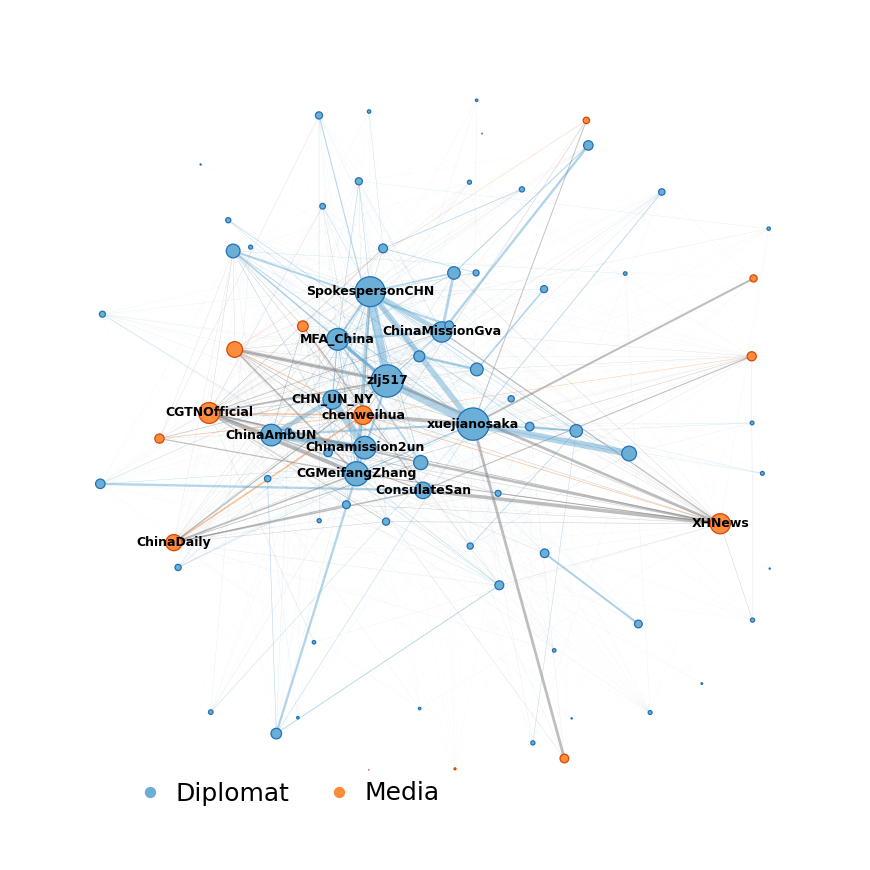
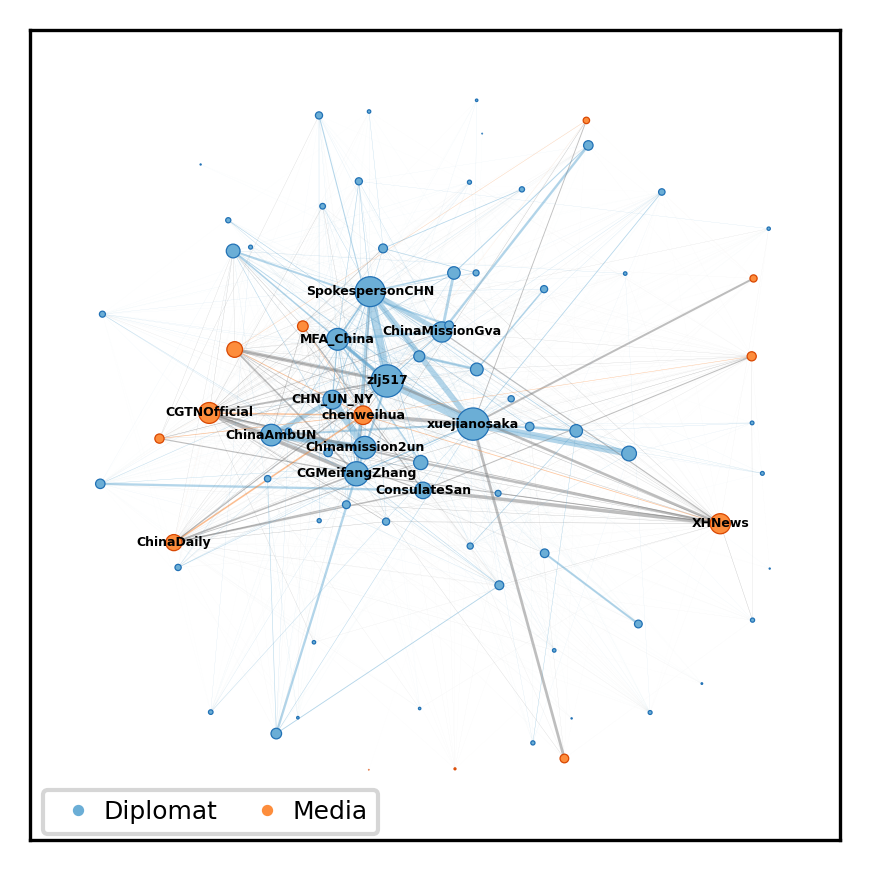
tweaks to networksplots

Changed region(s): [[0.031, 0.031, 0.9931, 0.9931]]

diff --git a/networks/src/network_early.py b/networks/src/network_early.py
@@ -3,7 +3,6 @@ main document for plot (updated 2022-02-01 VMP).
 '''
 
 # imports 
-import backboning
 import pandas as pd 
 import numpy as np
 import networkx as nx 
@@ -186,9 +185,9 @@ def plot_network(G, nodelst, edgelst, color_dct, node_color, nodeedge_color, edg
 
     # formatting & save
     lines, labels = get_legend(node_size, color_dct)
-    fig.legend(lines, labels, bbox_to_anchor=[0.53, 0.14], labelspacing = 1, columnspacing = 1, fontsize = 6, frameon = False, ncol=2, handletextpad=0.01)
+    fig.legend(lines, labels, bbox_to_anchor=[0.45, 0.12], labelspacing = 1, columnspacing = 1, fontsize = 6, frameon = False, ncol=2, handletextpad=0.01)
     plt.tight_layout()
-    plt.savefig(f"{outfolder}/{filename}_seed{seed}_k{k}_test.png", bbox_inches='tight')
+    plt.savefig(f"{outfolder}/{filename}_seed{seed}_k{k}.png", bbox_inches='tight')
 
 def main(n_labels, infile, outfolder): 
     print(infile)

diff --git a/networks/src/network_full.py b/networks/src/network_full.py
@@ -185,12 +185,11 @@ def plot_network(G, nodelst, edgelst, color_dct, node_color, nodeedge_color, edg
 
     # formatting & save
     lines, labels = get_legend(node_size, color_dct)
-    fig.legend(lines, labels, bbox_to_anchor=[0.53, 0.14], labelspacing = 1, columnspacing = 1, fontsize = 6, frameon = False, ncol=2, handletextpad=0.01)
+    fig.legend(lines, labels, bbox_to_anchor=[0.45, 0.12], labelspacing = 1, columnspacing = 1, fontsize = 6, frameon = False, ncol=2, handletextpad=0.01)
     plt.tight_layout()
     plt.savefig(f"{outfolder}/{filename}_seed{seed}_k{k}.png", bbox_inches='tight')
 
 def main(n_labels, infile, outfolder): 
-    print(infile)
     ''' 1. vars '''
     seed = 11
     k = 1.8

diff --git a/networks/src/network_late.py b/networks/src/network_late.py
@@ -185,7 +185,7 @@ def plot_network(G, nodelst, edgelst, color_dct, node_color, nodeedge_color, edg
 
     # formatting & save
     lines, labels = get_legend(node_size, color_dct)
-    fig.legend(lines, labels, bbox_to_anchor=[0.5, 0.14], labelspacing = 1, columnspacing = 1, fontsize = 6, frameon = False, ncol=2, handletextpad=0.01)
+    fig.legend(lines, labels, bbox_to_anchor=[0.45, 0.12], labelspacing = 1, columnspacing = 1, fontsize = 6, frameon = False, ncol=2, handletextpad=0.01)
     plt.tight_layout()
     plt.savefig(f"{outfolder}/{filename}_seed{seed}_k{k}.png", bbox_inches='tight')
 
